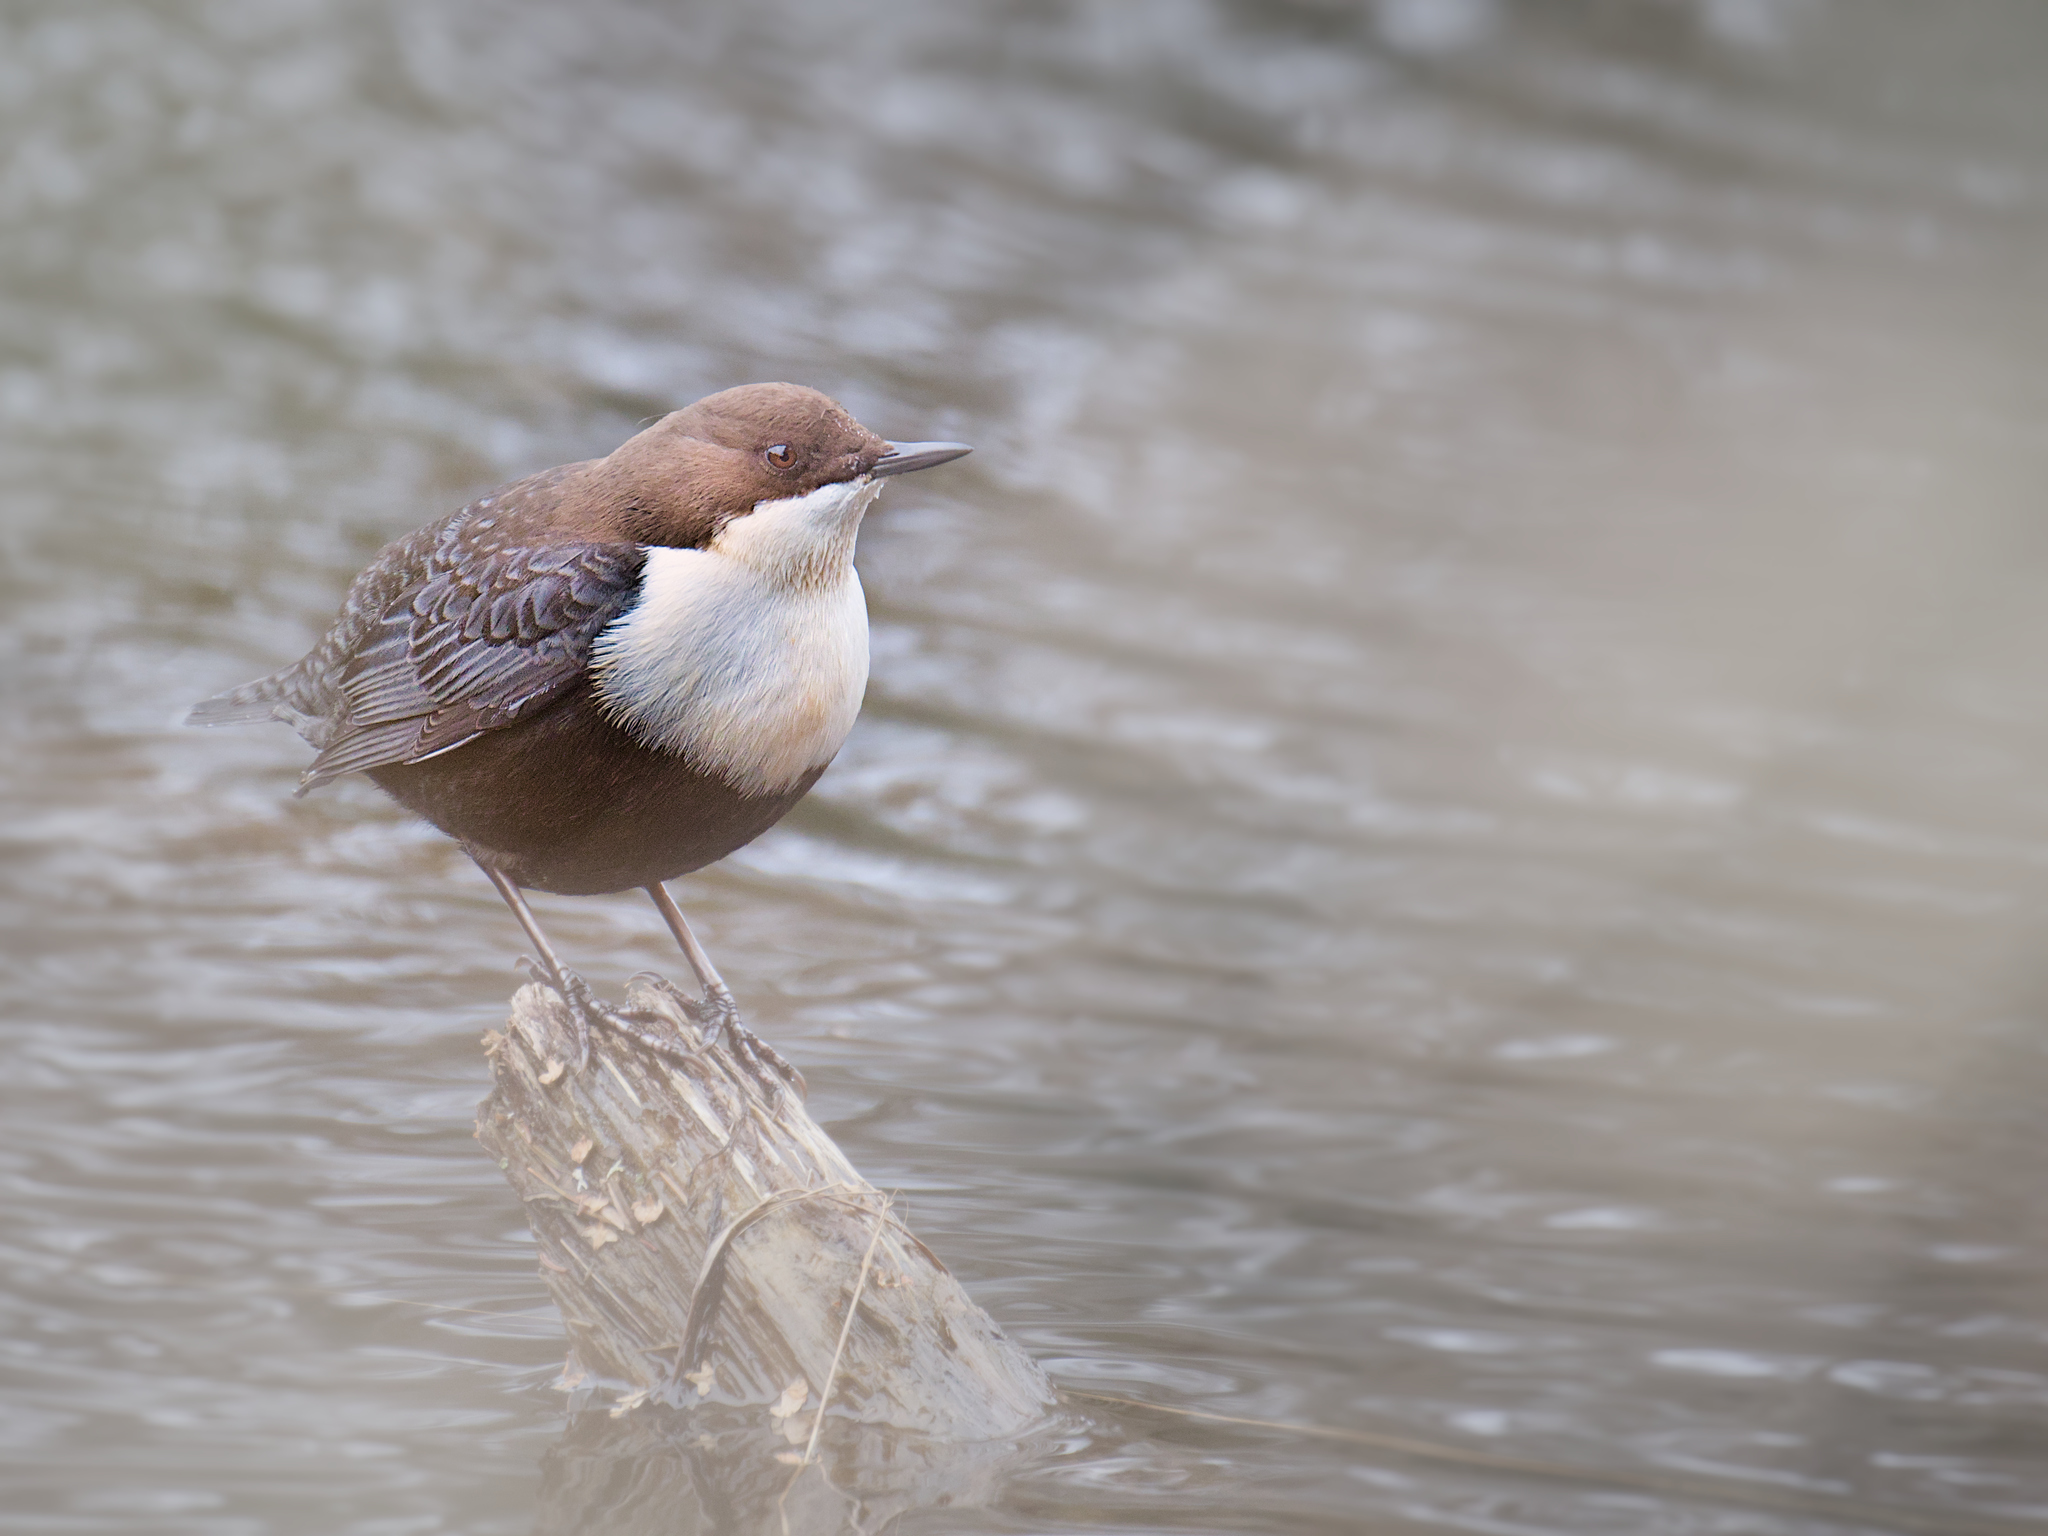
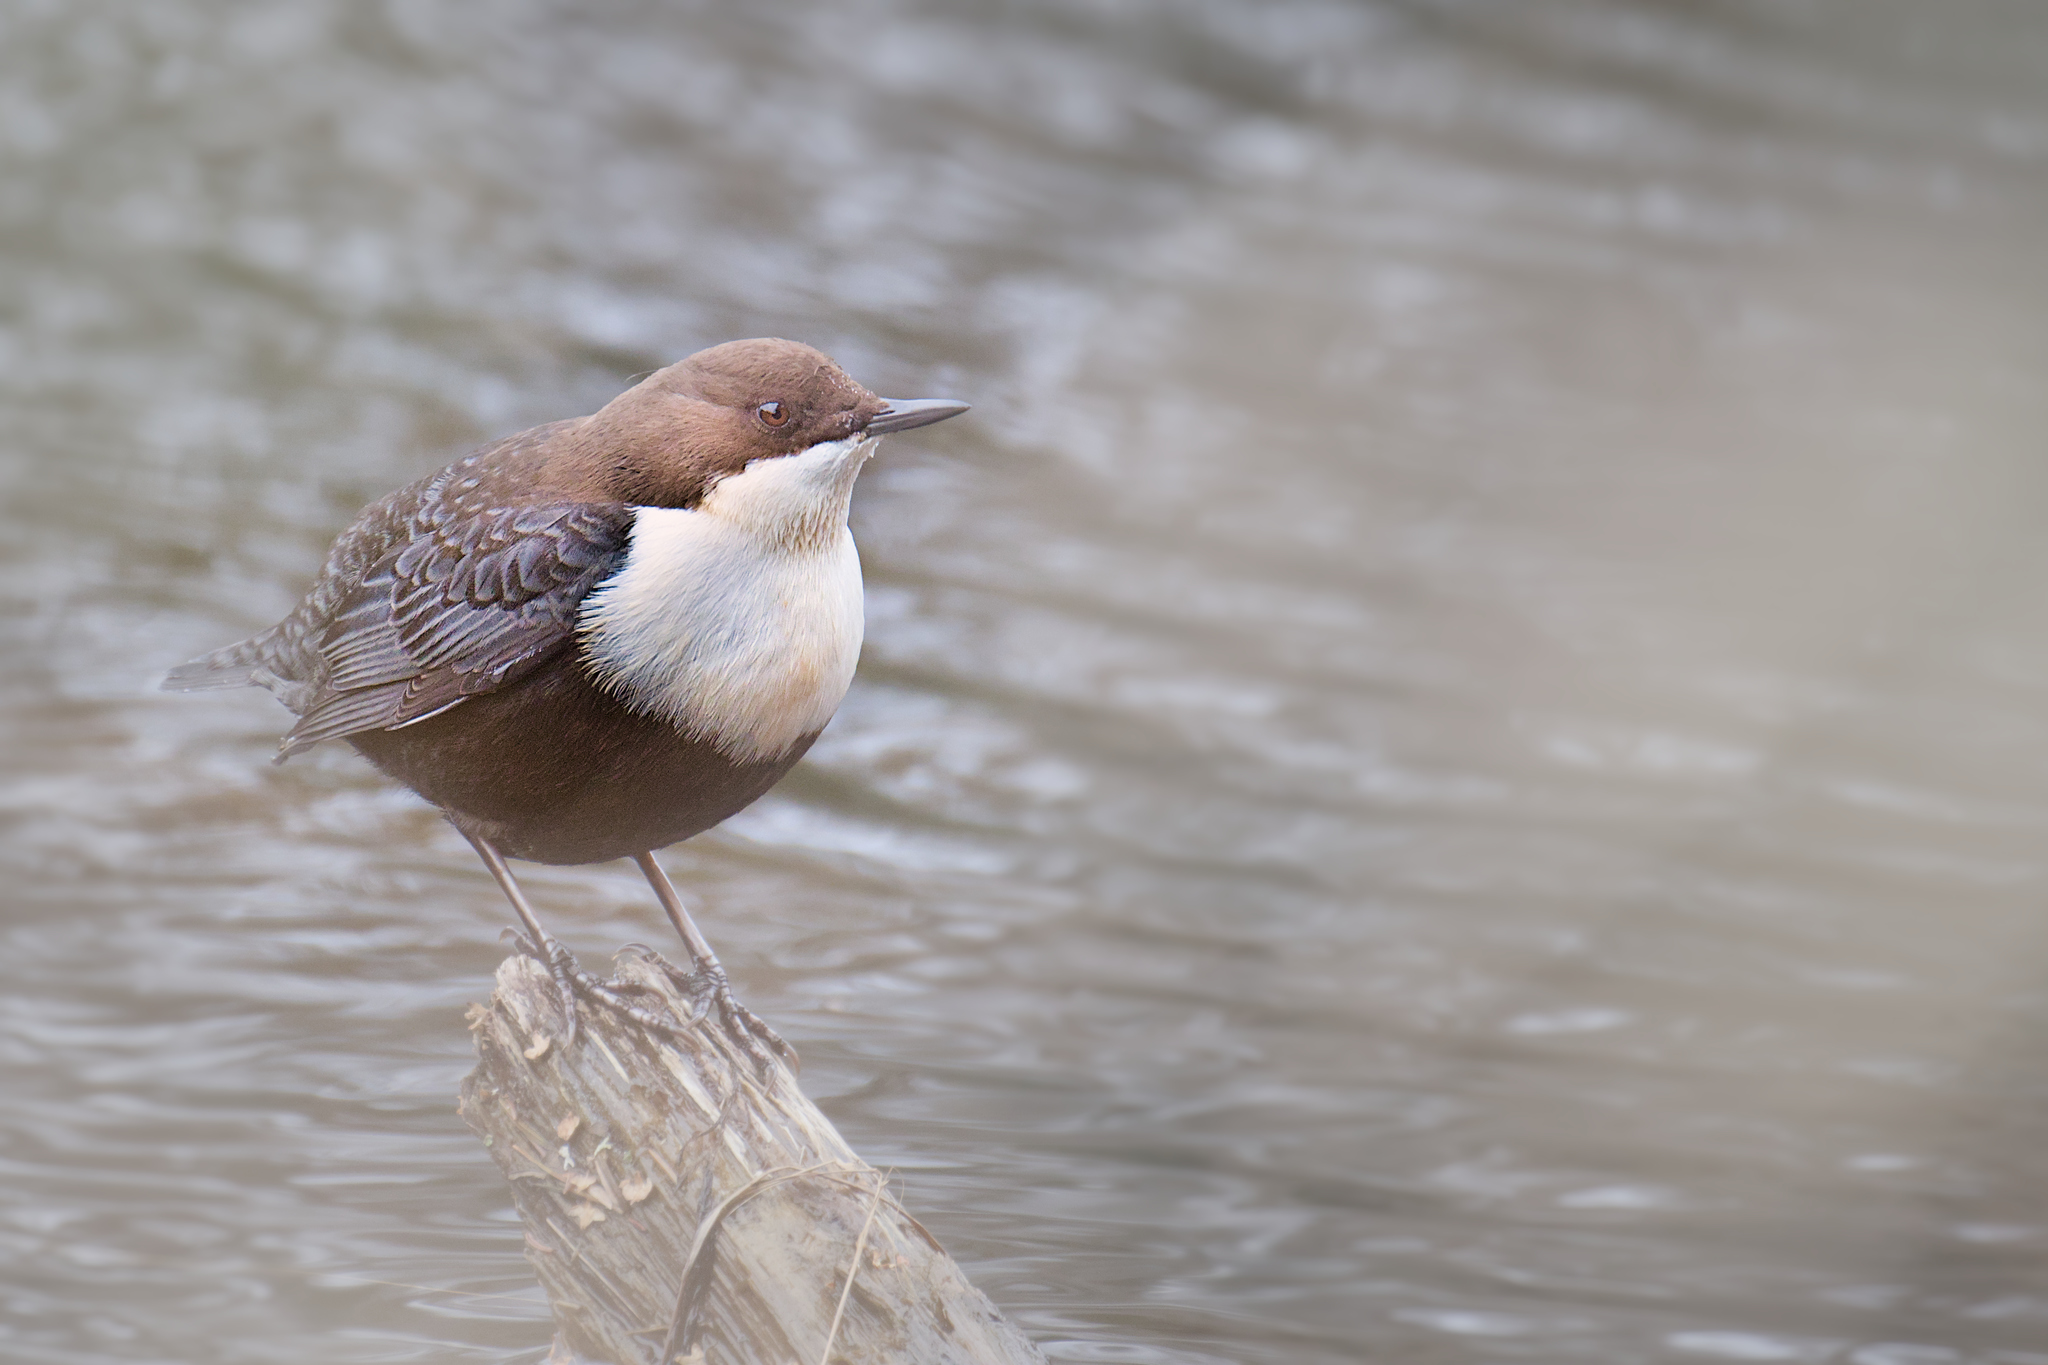
Add images

diff --git a/docs/wildlife/index.html b/docs/wildlife/index.html
@@ -8,7 +8,7 @@
   
   <a
     class="gatsby-resp-image-link"
-    href="/static/93f6b5bcb1274cc4cc3fd7036bad0f61/09658/DSF6101.jpg"
+    href="/static/1ca251d932e64c7a7229ee24e3695493/09658/DSF6101.jpg"
     style="display: block"
     target="_blank"
     rel="noopener"
@@ -20,32 +20,32 @@
   >
     <span
       class="gatsby-resp-image-background-image"
[2 lines of base64/hex data omitted]
     >
       <picture>
         <source
-          srcset="/static/93f6b5bcb1274cc4cc3fd7036bad0f61/601b1/DSF6101.webp 500w,
-/static/93f6b5bcb1274cc4cc3fd7036bad0f61/80c60/DSF6101.webp 1000w,
-/static/93f6b5bcb1274cc4cc3fd7036bad0f61/fab06/DSF6101.webp 2000w,
-/static/93f6b5bcb1274cc4cc3fd7036bad0f61/96d48/DSF6101.webp 2048w"
+          srcset="/static/1ca251d932e64c7a7229ee24e3695493/601b1/DSF6101.webp 500w,
+/static/1ca251d932e64c7a7229ee24e3695493/80c60/DSF6101.webp 1000w,
+/static/1ca251d932e64c7a7229ee24e3695493/fab06/DSF6101.webp 2000w,
+/static/1ca251d932e64c7a7229ee24e3695493/96d48/DSF6101.webp 2048w"
           sizes="(max-width: 2000px) 100vw, 2000px"
           type="image/webp"
         />
         <source
-          srcset="/static/93f6b5bcb1274cc4cc3fd7036bad0f61/953fe/DSF6101.jpg 500w,
-/static/93f6b5bcb1274cc4cc3fd7036bad0f61/0a251/DSF6101.jpg 1000w,
-/static/93f6b5bcb1274cc4cc3fd7036bad0f61/451a4/DSF6101.jpg 2000w,
-/static/93f6b5bcb1274cc4cc3fd7036bad0f61/09658/DSF6101.jpg 2048w"
+          srcset="/static/1ca251d932e64c7a7229ee24e3695493/953fe/DSF6101.jpg 500w,
+/static/1ca251d932e64c7a7229ee24e3695493/0a251/DSF6101.jpg 1000w,
+/static/1ca251d932e64c7a7229ee24e3695493/451a4/DSF6101.jpg 2000w,
+/static/1ca251d932e64c7a7229ee24e3695493/09658/DSF6101.jpg 2048w"
           sizes="(max-width: 2000px) 100vw, 2000px"
           type="image/jpeg"
         />
         <img
           class="gatsby-resp-image-image"
           style="width: 100%; height: 100%; margin: 0; vertical-align: middle; position: absolute; top: 0; left: 0; box-shadow: inset 0px 0px 0px 400px white;"
-          src="/static/93f6b5bcb1274cc4cc3fd7036bad0f61/451a4/DSF6101.jpg"
+          src="/static/1ca251d932e64c7a7229ee24e3695493/451a4/DSF6101.jpg"
           alt="White-throated dipper"
           title="White-throated dipper"
-          src="/static/93f6b5bcb1274cc4cc3fd7036bad0f61/451a4/DSF6101.jpg"
+          src="/static/1ca251d932e64c7a7229ee24e3695493/451a4/DSF6101.jpg"
         />
       </picture>
       </span>
